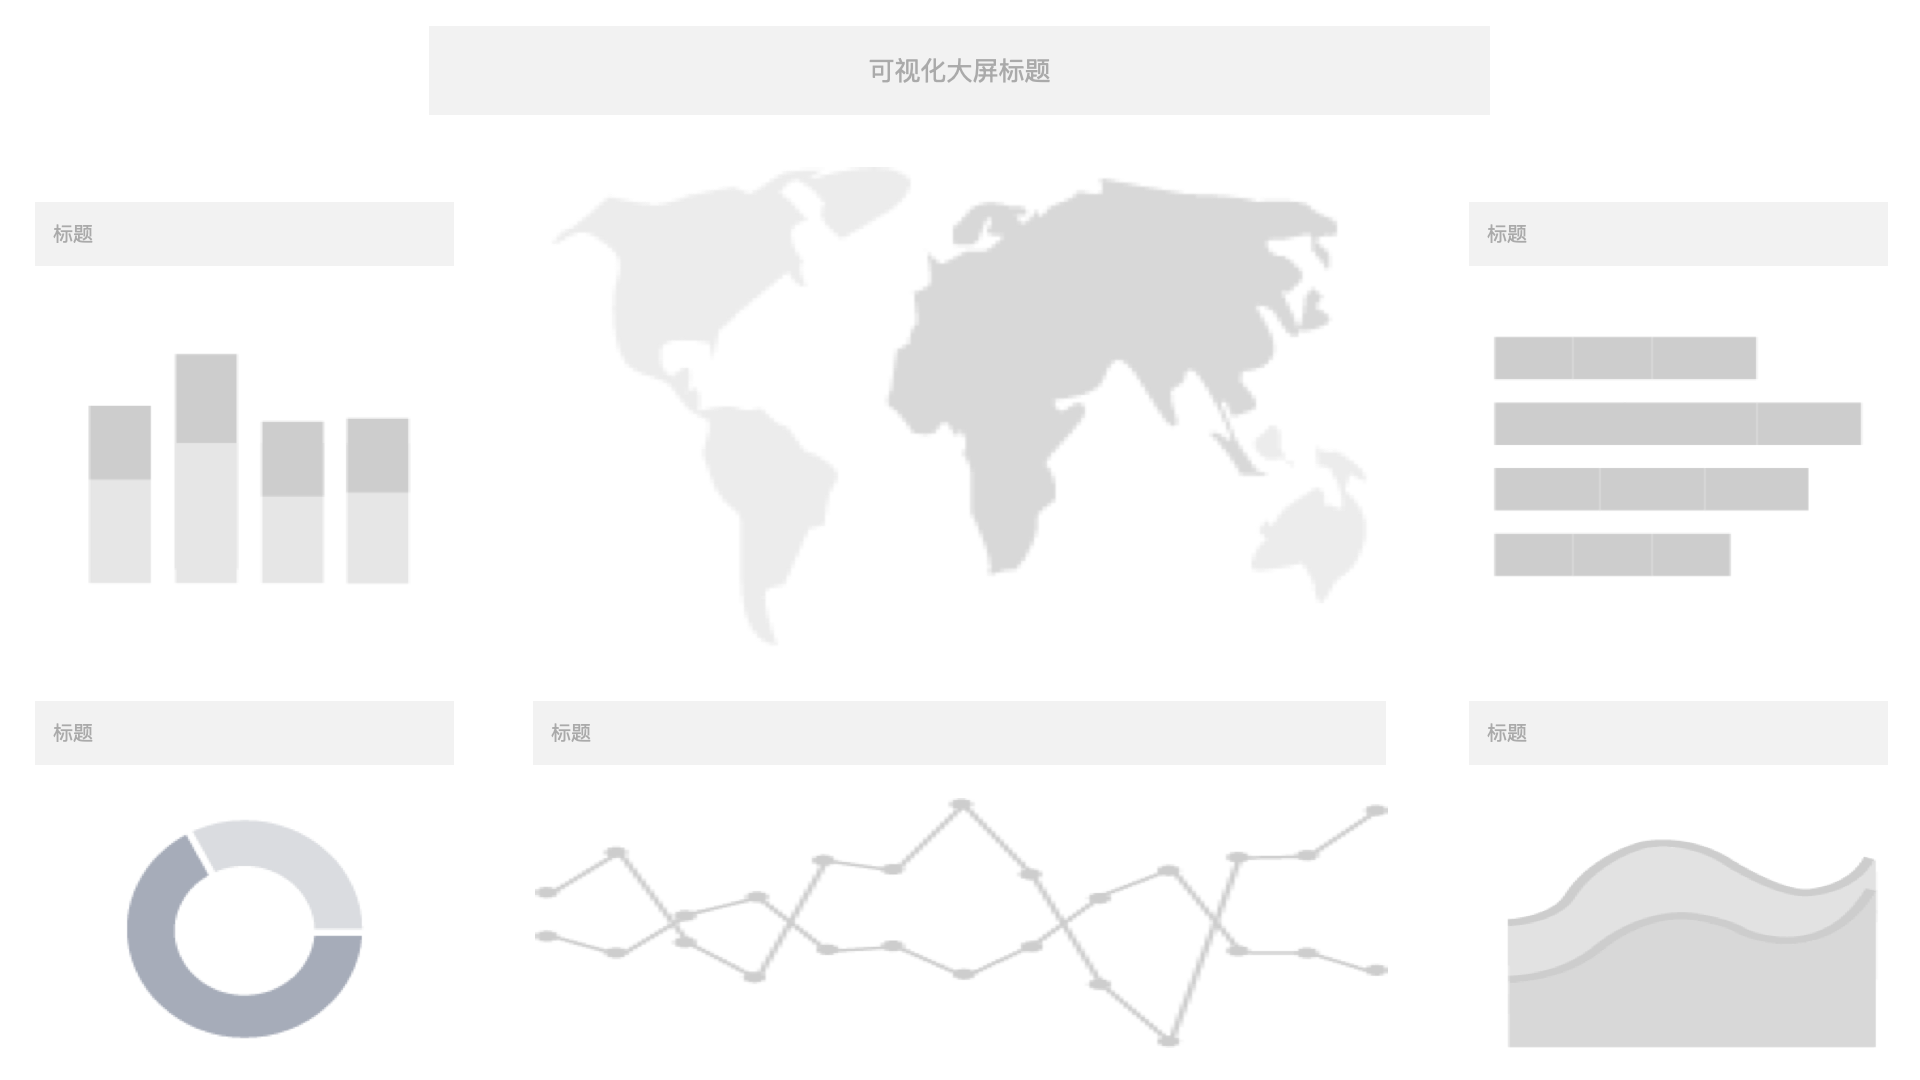
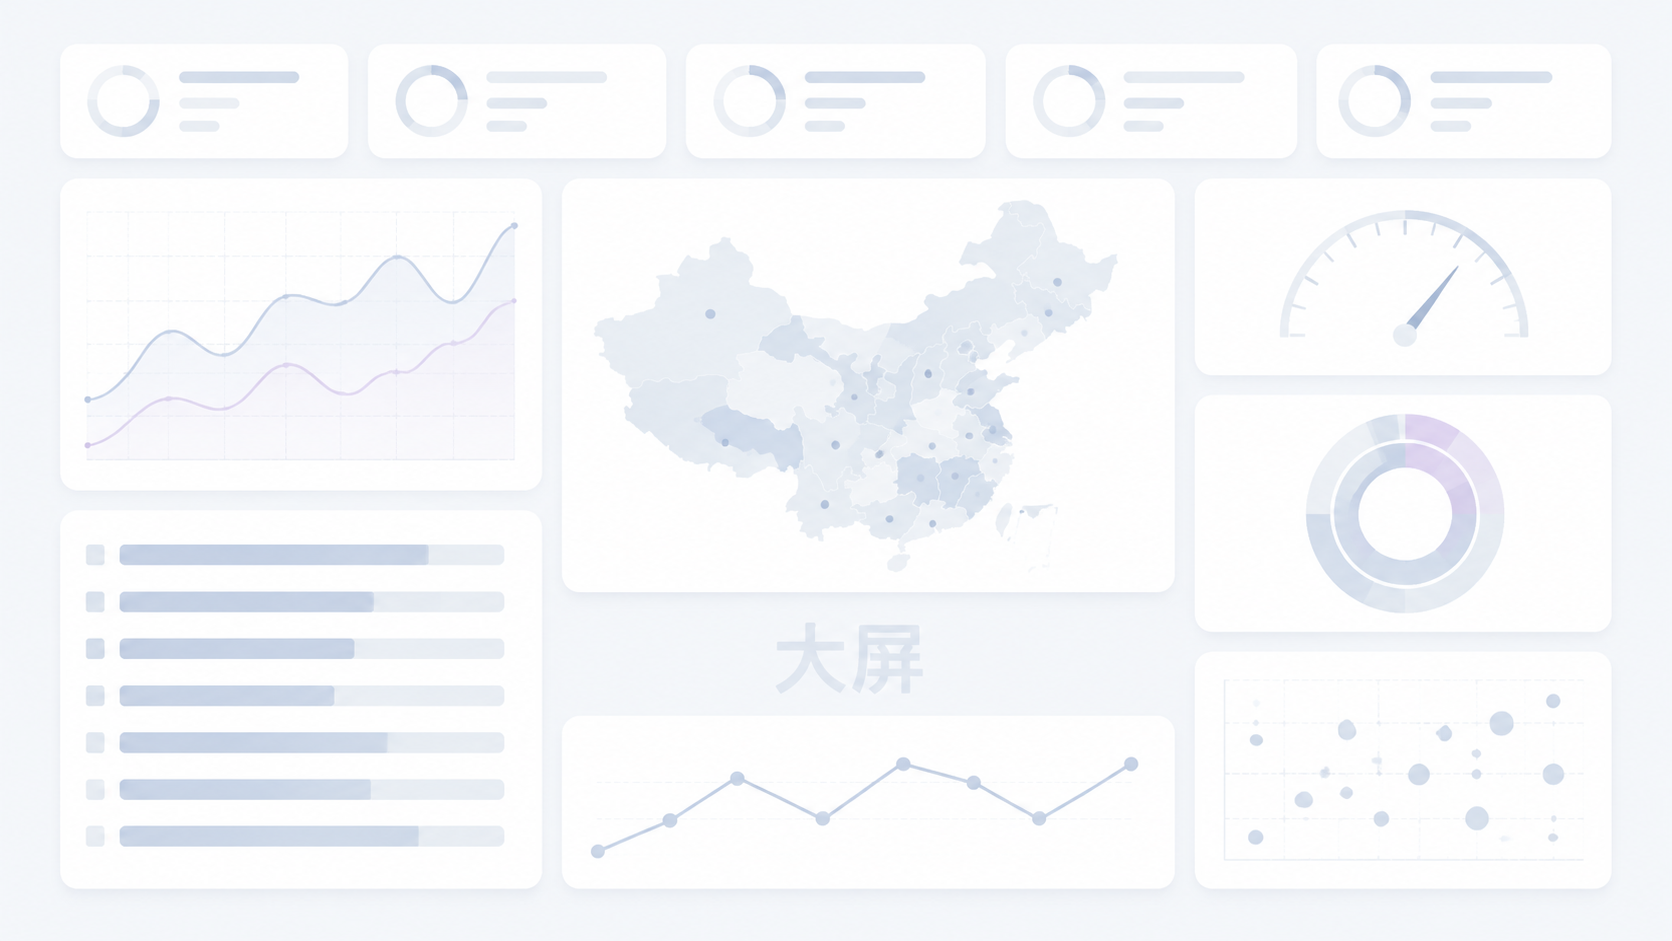
style: 优化页面列表缩略图/占位符显示效果
- 无背景图时直接使用占位符作为 el-image src，避免触发 error 模板导致尺寸过小
- 添加 box-sizing: border-box 确保 padding 包含在容器高度内，左右间距一致
- error fallback 图片尺寸从 60% 改为 max-width/max-height: 100%
- 更新仪表盘和大屏占位符图片资源

diff --git a/data-room-ui/src/dataroom-packages/page/index.vue b/data-room-ui/src/dataroom-packages/page/index.vue
@@ -391,7 +391,7 @@ onMounted(() => {
               </el-image>
               <el-image
                 v-else-if="item.pageType === PageType.VISUAL_SCREEN"
-                :src="item.thumbnail ? item.thumbnail : 'placeholder'"
+                :src="item.thumbnail || getDefaultPlaceholder(item.pageType)"
                 :lazy="true"
                 fit="contain"
                 class="thumbnail-image"
@@ -404,7 +404,7 @@ onMounted(() => {
               </el-image>
               <el-image
                 v-else-if="item.pageType === PageType.PAGE"
-                :src="item.thumbnail ? item.thumbnail : 'placeholder'"
+                :src="item.thumbnail || getDefaultPlaceholder(item.pageType)"
                 :lazy="true"
                 fit="contain"
                 class="thumbnail-image"
@@ -559,6 +559,7 @@ onMounted(() => {
           justify-content: center;
           padding: 16px;
           overflow: hidden;
+          box-sizing: border-box;
 
           .thumbnail-image {
             width: 100%;
@@ -572,8 +573,8 @@ onMounted(() => {
               justify-content: center;
 
               img {
-                width: 60%;
-                height: 60%;
+                max-width: 100%;
+                max-height: 100%;
                 object-fit: contain;
               }
             }